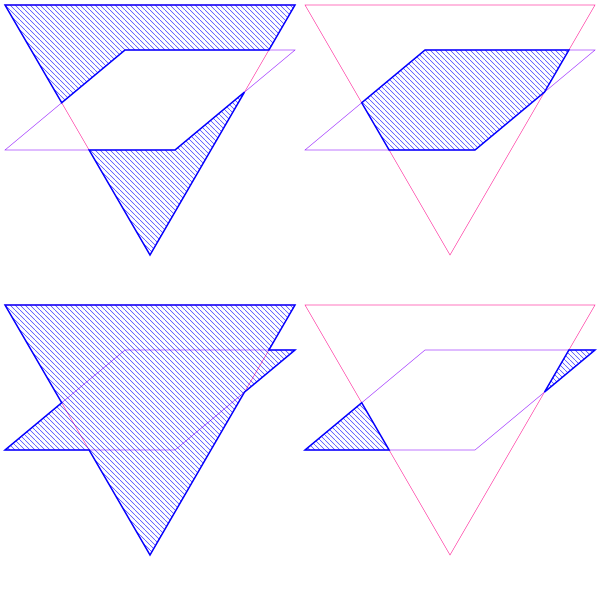
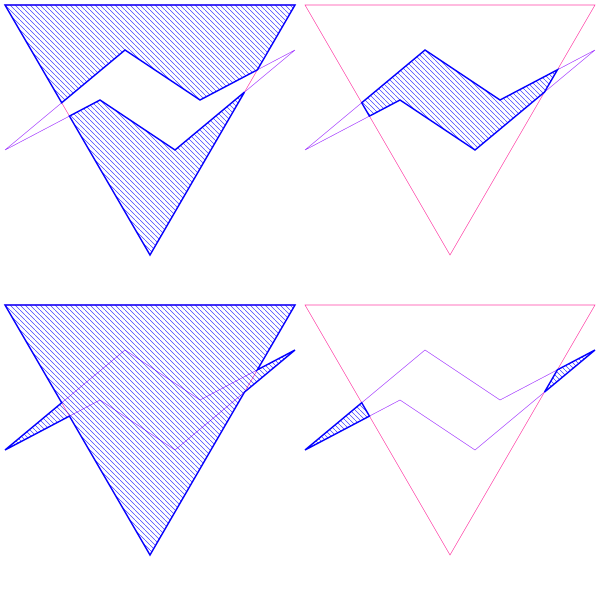
update clipping example (use concave clip shape)

diff --git a/examples/clipping/main.c b/examples/clipping/main.c
@@ -19,19 +19,19 @@ static void export_poly(FILE *out, CT_ClipNode *poly, CT_SVGAttribs *attribs) {
 int main() {
   srand(time(0));
   CT_Vec2f a[] = {{10, 10}, {590, 10}, {300, 510}};
-  CT_Vec2f b[] = {{10, 300}, {250, 100}, {590, 100}, {350, 300}};
-  CT_SVGAttribs *doc_attr =
-      ct_svg_attribs(0, 3, SVG_INT("width", 600), SVG_INT("height", 600),
-                     SVG_STR("fill", "none"));
+  CT_Vec2f b[] = {{10, 300},  {250, 100}, {400, 200},
+                  {590, 100}, {350, 300}, {200, 200}};
   FILE *out = fopen("vatti.svg", "w");
-  ct_svg_start_doc(out, doc_attr);
+  ct_svg_start_doc(
+      out, ct_svg_attribs(0, 3, SVG_INT("width", 600), SVG_INT("height", 600),
+                          SVG_STR("fill", "none")));
   fprintf(out,
           "<defs><pattern id=\"P1\" width=\"10\" height=\"10\" "
           "patternUnits=\"userSpaceOnUse\"><line x1=\"0\" y1=\"0\" x2=\"10\" "
           "y2=\"10\" stroke=\"#00f\"/></pattern></defs>");
   for (size_t i = 0; i < 4; i++) {
     CT_ClipNode *s      = ct_create_polygon2f(a, 3);
-    CT_ClipNode *c      = ct_create_polygon2f(b, 4);
+    CT_ClipNode *c      = ct_create_polygon2f(b, 6);
     CT_ClipNode *result = ct_clip_polygon2f(s, c, i);
     char tx[64];
     snprintf(tx, 64, "translate(%zu,%zu) scale(0.5)", (i & 1) * 300,
